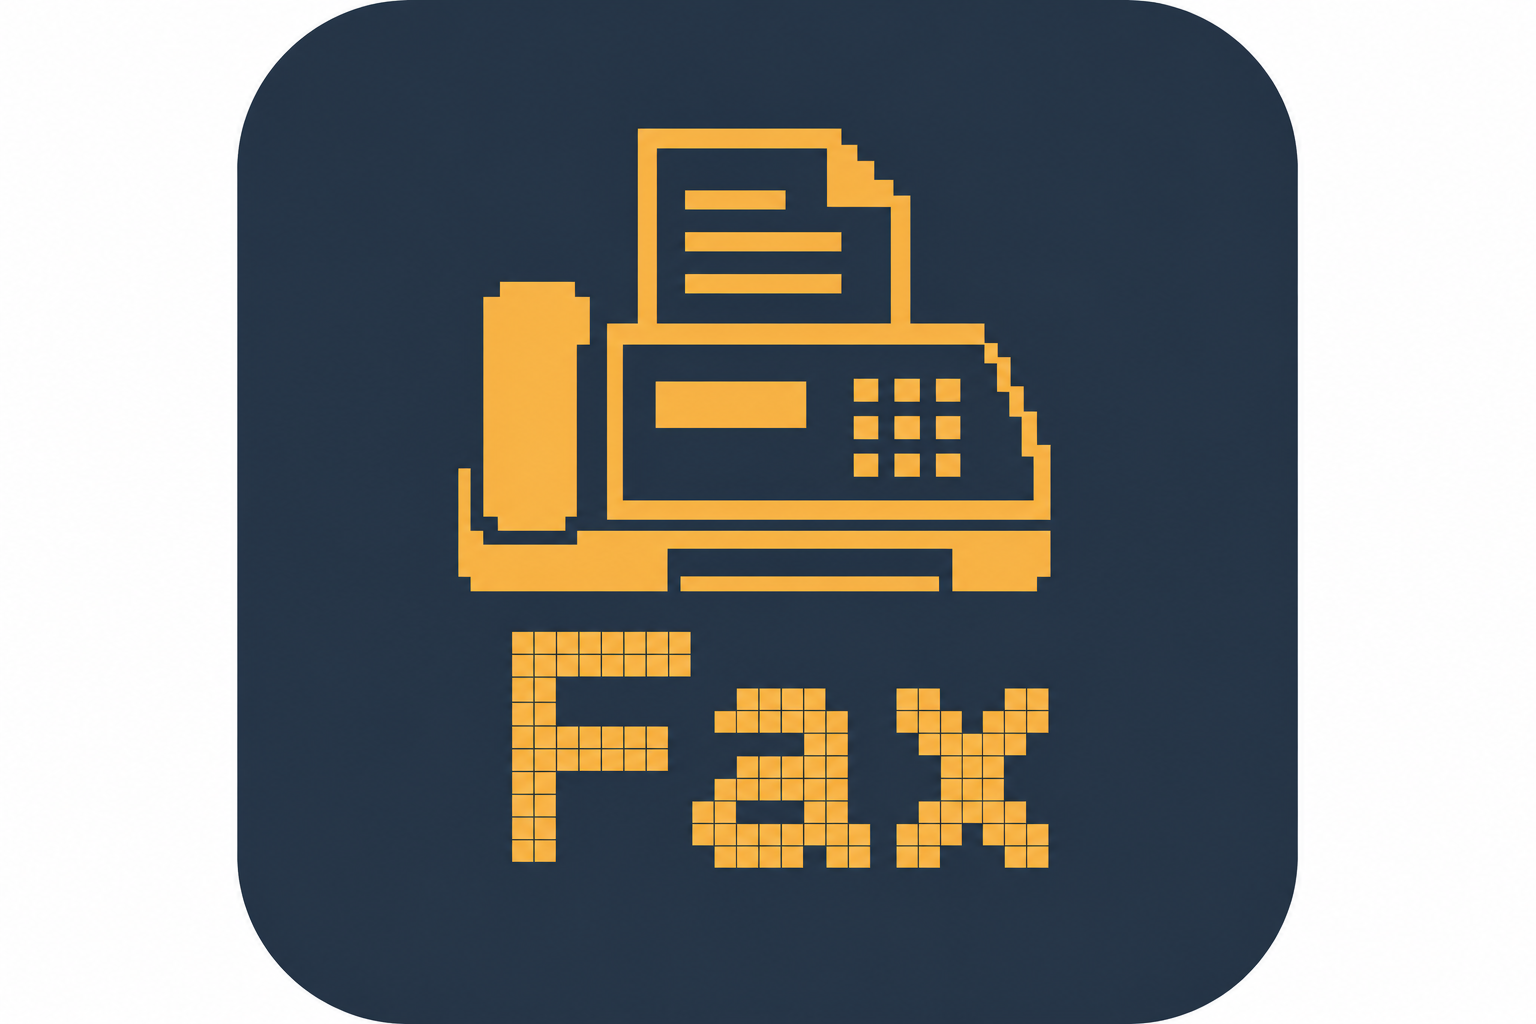
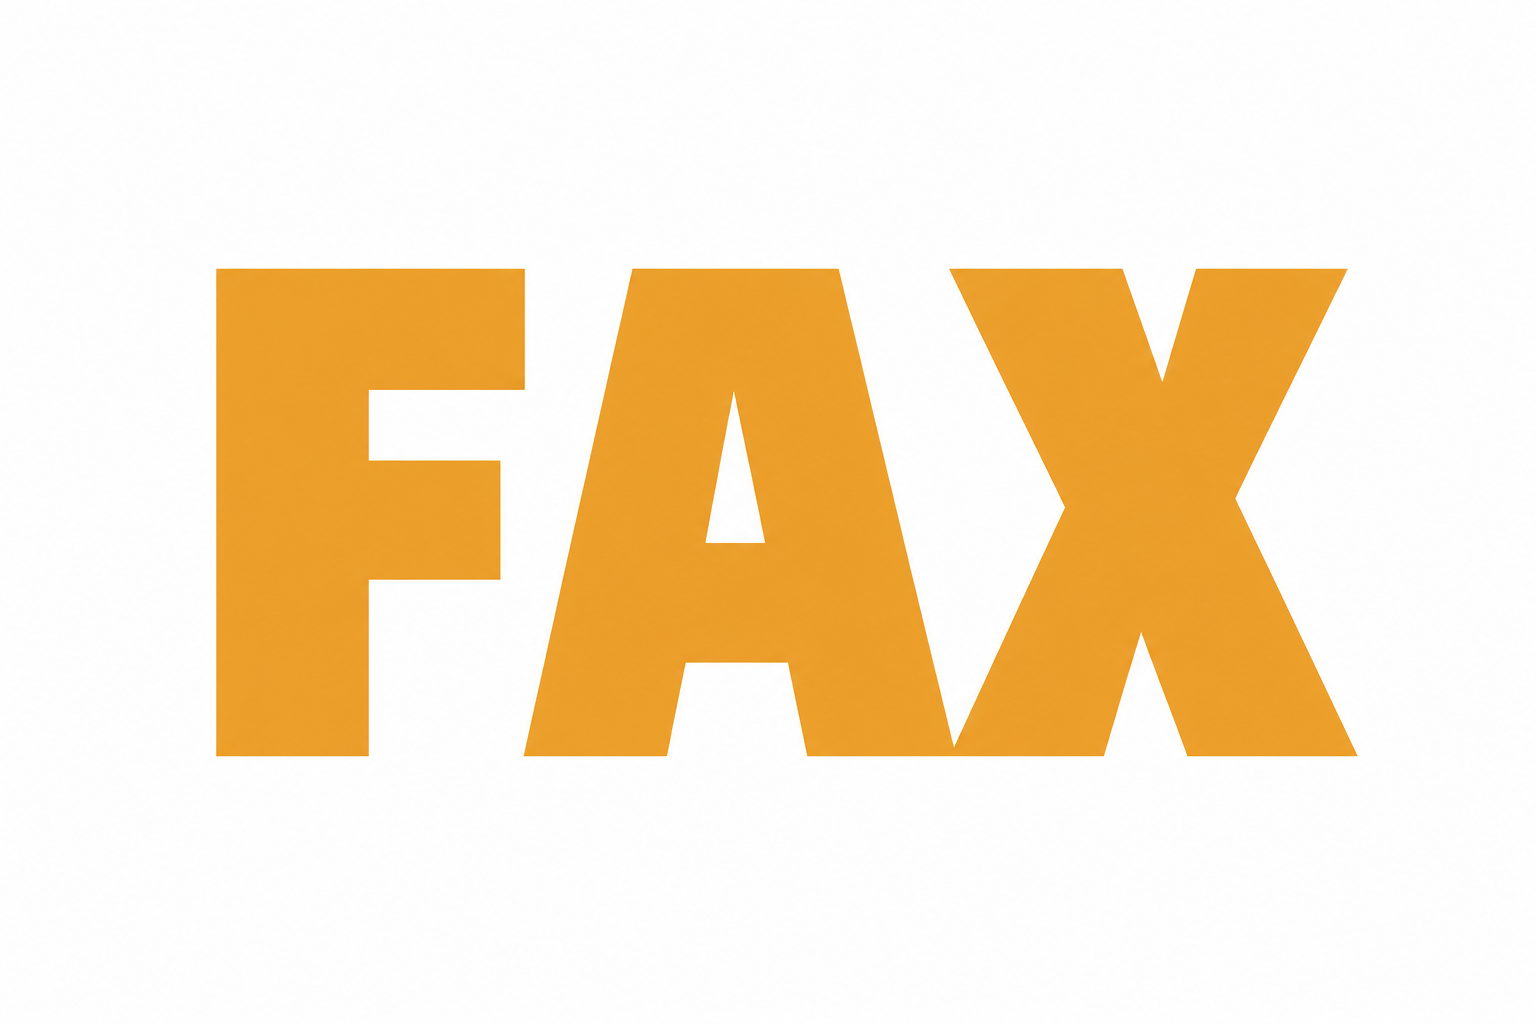
Legg til ekte faxlyder og simulert papirstopp hver 10. sending.
Bytter syntetiserte maskinlyder med WAV-filer, oppdaterer PWA-ikoner og service worker v8.

diff --git a/app.js b/app.js
@@ -239,7 +239,7 @@ function urlBase64ToUint8Array(base64String) {
     return output;
 }
 
-const SW_CACHE_BUST = 'v=7';
+const SW_CACHE_BUST = 'v=8';
 
 async function registerServiceWorker() {
     if (!('serviceWorker' in navigator)) return null;
@@ -524,6 +524,14 @@ const PAPER_MAX = 6;
 const MESSAGE_MAX_LENGTH = 50;
 const FAX_SEND_PAUSE_MS = 2600;
 const FAX_SEND_FEED_MS = 5400;
+const PAPER_JAM_INTERVAL = 10;
+const FAX_WAV = {
+    outOfPaper: 'feilmelding fax.wav',
+    shredder: 'paper shredder.wav',
+    print: 'print av fax.wav',
+    sending: 'sending fax.wav',
+    paperJam: 'paper jam.wav',
+};
 let isFaxMachineBusy = false;
 let faxSoundCleanup = [];
 
@@ -532,6 +540,23 @@ function clearFaxSoundCleanup() {
         try { fn(); } catch (_) { /* ignore */ }
     });
     faxSoundCleanup = [];
+}
+
+function playFaxWav(fileName, { managed = true } = {}) {
+    initAudio();
+    if (managed) clearFaxSoundCleanup();
+    if (audioCtx?.state === 'suspended') {
+        audioCtx.resume().catch(() => {});
+    }
+    const audio = new Audio(encodeURI(`lyder/${fileName}`));
+    audio.play().catch(() => {});
+    if (managed) {
+        faxSoundCleanup.push(() => {
+            audio.pause();
+            audio.currentTime = 0;
+        });
+    }
+    return audio;
 }
 
 /** Klassisk 8-sekunders faxlyd: handshake + modem + mekanisk surr */
@@ -820,7 +845,7 @@ async function runFaxReceiveAnimation(fax) {
     const senderName = senderProfile?.name || 'UKJENT';
 
     showFaxMachineOverlay('receive', 'MOTTAR...', `INNKOMMENDE FRA ${senderName.toUpperCase()} — SKRIVER UT ARK...`);
-    playFaxMachineCycle(FAX_RECEIVE_MS);
+    playFaxWav(FAX_WAV.print);
 
     const paper = document.getElementById('faxEmergingPaper');
     const cover = document.getElementById('faxEmergingCover');
@@ -868,7 +893,30 @@ async function runFaxReceiveAnimation(fax) {
     return true;
 }
 
-async function runFaxSendAnimation(text, destProfiles, imageUrl = null) {
+function faxSendCountStorageKey() {
+    return `faxchat_send_count_${currentProfile?.station_id || 'unknown'}`;
+}
+
+function getFaxSendCount() {
+    try {
+        const n = parseInt(localStorage.getItem(faxSendCountStorageKey()), 10);
+        return Number.isFinite(n) && n >= 0 ? n : 0;
+    } catch {
+        return 0;
+    }
+}
+
+function incrementFaxSendCount() {
+    try {
+        localStorage.setItem(faxSendCountStorageKey(), String(getFaxSendCount() + 1));
+    } catch { /* ignore */ }
+}
+
+function willTriggerPaperJam() {
+    return (getFaxSendCount() + 1) % PAPER_JAM_INTERVAL === 0;
+}
+
+async function runFaxSendAnimation(text, destProfiles, imageUrl = null, { simulatePaperJam = false } = {}) {
     const recipients = Array.isArray(destProfiles) ? destProfiles : [destProfiles];
     const firstDest = recipients[0];
     const isMulti = recipients.length > 1;
@@ -889,7 +937,7 @@ async function runFaxSendAnimation(text, destProfiles, imageUrl = null) {
         'KLAR',
         `SJEKK ARKET — ${destSummary}`
     );
-    playFaxMachineCycle(FAX_CYCLE_MS);
+    playFaxWav(FAX_WAV.sending);
 
     if (destLabel) {
         destLabel.textContent = isMulti
@@ -903,9 +951,27 @@ async function runFaxSendAnimation(text, destProfiles, imageUrl = null) {
 
     await delay(FAX_SEND_PAUSE_MS);
 
+    if (simulatePaperJam) {
+        clearFaxSoundCleanup();
+        statusEl.innerText = 'FEIL';
+        hintEl.innerText = 'PAPIR HAR SATT SEG FAST — STOPPET';
+        if (lcd) lcd.textContent = 'PAPER JAM';
+
+        const recovered = await promptPaperJamRecovery();
+        if (!recovered) {
+            hideFaxMachineOverlay();
+            clearFaxSoundCleanup();
+            return false;
+        }
+
+        playFaxWav(FAX_WAV.sending);
+    }
+
     statusEl.innerText = 'SENDER...';
-    hintEl.innerText = 'MATER ARK INN I FAXMASKINEN...';
-    if (lcd) lcd.textContent = 'SENDING';
+    hintEl.innerText = simulatePaperJam
+        ? 'SENDER PÅ NYTT ETTER PAPIRFJERNING...'
+        : 'MATER ARK INN I FAXMASKINEN...';
+    if (lcd) lcd.textContent = simulatePaperJam ? 'RETRY' : 'SENDING';
     setFaxMachineTransmitting(true);
     intakeGlow?.classList.add('active');
     rollers?.classList.add('active');
@@ -922,6 +988,7 @@ async function runFaxSendAnimation(text, destProfiles, imageUrl = null) {
     sendSheet.classList.add('phase-pause');
     hideFaxMachineOverlay();
     clearFaxSoundCleanup();
+    return true;
 }
 
 function syncIncomingFromFetched(fetchedList) {
@@ -1407,6 +1474,7 @@ function showConfirmBox(title, text, onYes, onNo) {
 }
 
 function promptRefillPaper() {
+    playFaxWav(FAX_WAV.outOfPaper, { managed: false });
     return new Promise((resolve) => {
         showConfirmBox(
             'TOMT FOR PAPIR',
@@ -1415,6 +1483,18 @@ function promptRefillPaper() {
                 refillPaperToFull();
                 resolve(true);
             },
+            () => resolve(false)
+        );
+    });
+}
+
+function promptPaperJamRecovery() {
+    playFaxWav(FAX_WAV.paperJam, { managed: false });
+    return new Promise((resolve) => {
+        showConfirmBox(
+            'PAPIR HAR SATT SEG FAST',
+            'Ta ut det fastkjørte arket fra faxmaskinen. Bekreft når papiret er fjernet — faxen sendes automatisk på nytt.',
+            () => resolve(true),
             () => resolve(false)
         );
     });
@@ -1795,7 +1875,7 @@ async function runShredAnimation(fax) {
     document.getElementById('shredderStatus').innerText = 'AKTIV';
     document.getElementById('shredderHint').innerText = 'MAKULERER KONFIDENSIELT ARK — 6 SEK';
 
-    playFaxMachineCycle(FAX_SHRED_MS);
+    playFaxWav(FAX_WAV.shredder);
 
     await delay(350);
     paper?.classList.add('phase-feed');
@@ -1874,9 +1954,15 @@ async function startTransmission() {
 
     setAppScreen('send', { skipFaxRefresh: true });
 
+    const simulatePaperJam = willTriggerPaperJam();
+
     try {
         initAudio();
-        await runFaxSendAnimation(text, recipients, imageUrl);
+        const sendOk = await runFaxSendAnimation(text, recipients, imageUrl, { simulatePaperJam });
+        if (!sendOk) {
+            setAppScreen('compose', { skipFaxRefresh: true });
+            return;
+        }
 
         const sb = getSupabase();
         const stackOrder = Date.now();
@@ -1897,6 +1983,8 @@ async function startTransmission() {
             showMsgBox('TRANSMISSION FEIL', error.message);
             return;
         }
+
+        incrementFaxSendCount();
 
         inputEl.value = "";
         clearFaxImage();

diff --git a/sw.js b/sw.js
@@ -1,6 +1,6 @@
-/* FaxChat service worker v7 — pushvarsler (PWA fra hjemskjerm) */
+/* FaxChat service worker v8 — pushvarsler (PWA fra hjemskjerm) */
 
-const SW_VERSION = 7;
+const SW_VERSION = 8;
 
 self.addEventListener('install', (event) => {
     event.waitUntil(self.skipWaiting());